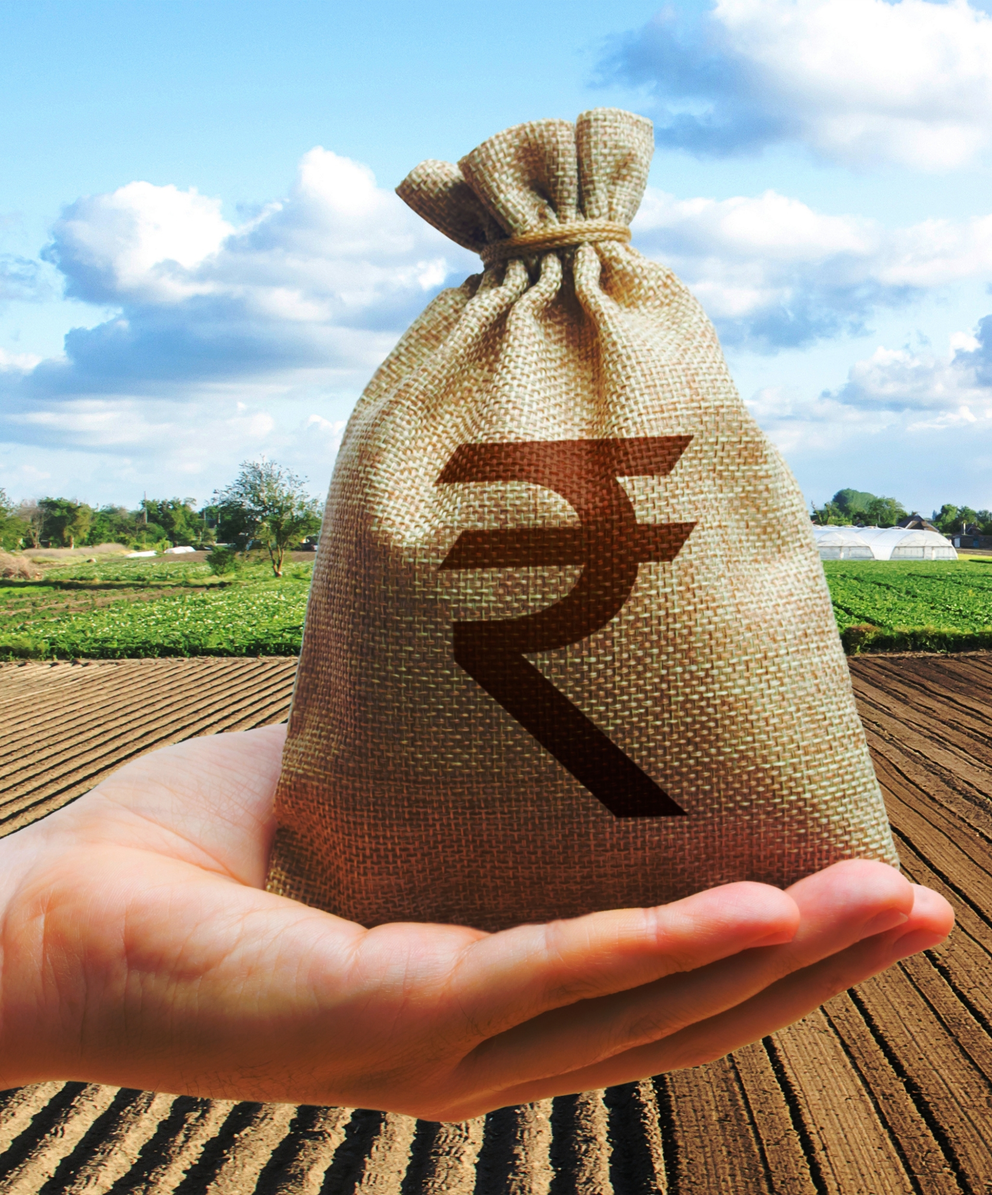
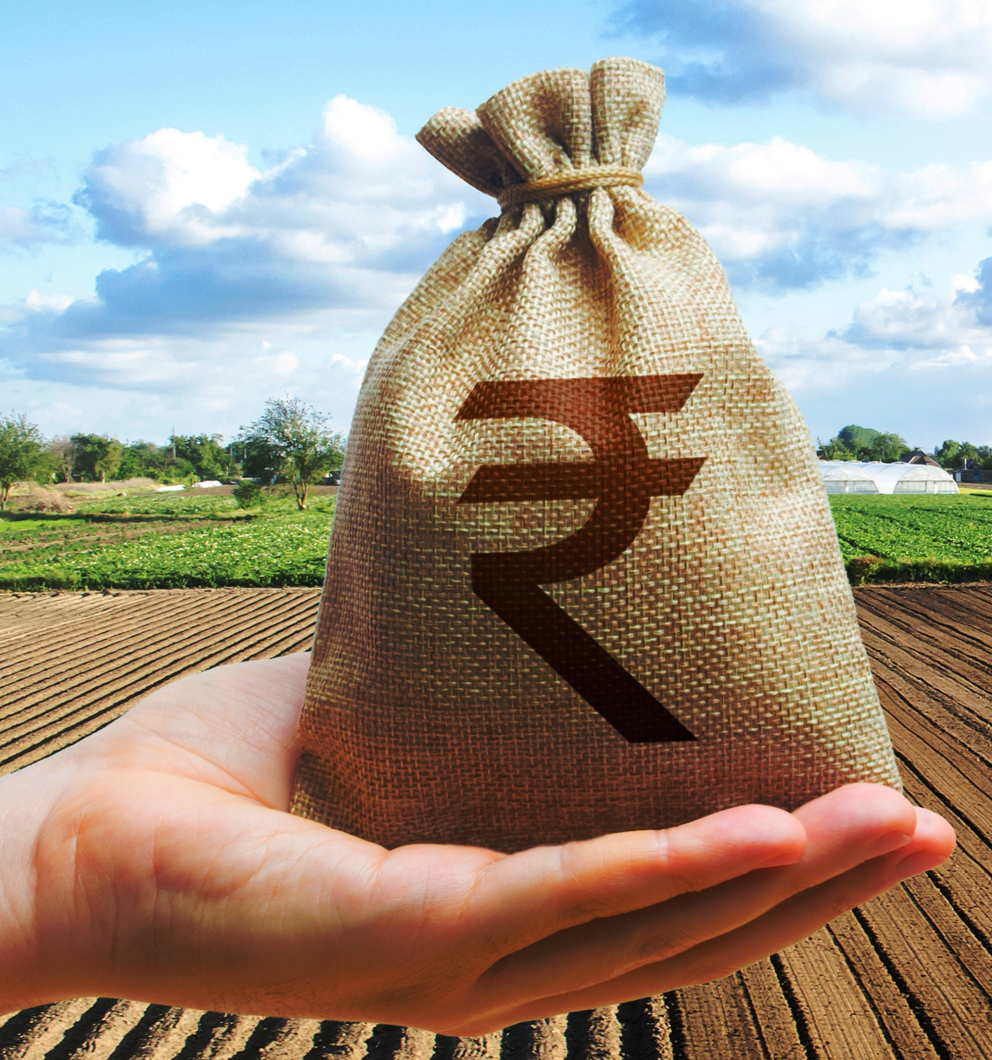
hero-image updated

diff --git a/css/style.css b/css/style.css
@@ -539,9 +539,10 @@ label {
 }
 
 .hero-section-image {
-  background-image: linear-gradient(45deg, #3687c589, rgba(32, 32, 32, 0.196)),
+  background-image:
+   /* linear-gradient(45deg, #3687c589, rgba(32, 32, 32, 0.1)), */
     url("../images/hero-image.jpg");
-  background-position: bottom;
+  background-position: center;
   height: 100vh;
   background-size: cover;
 }
